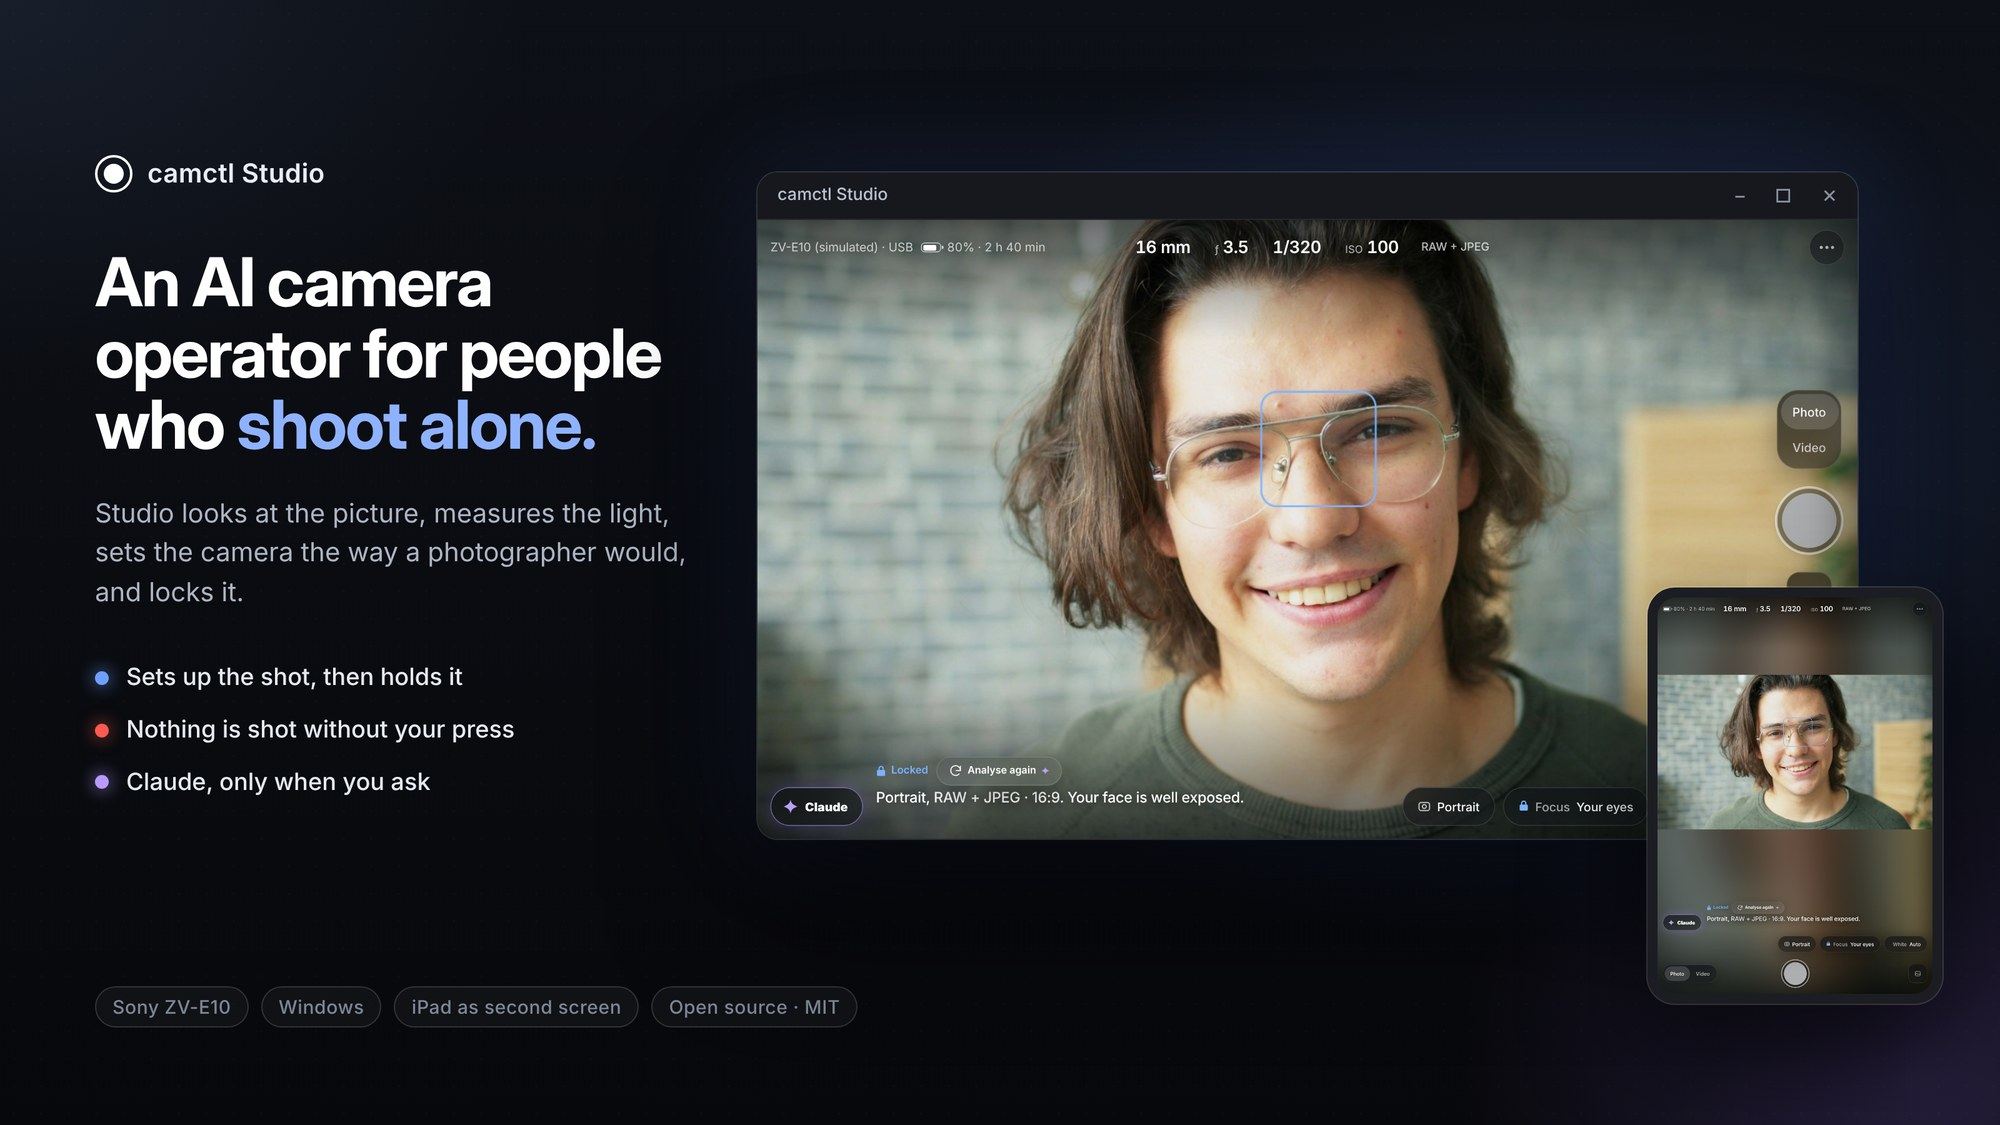
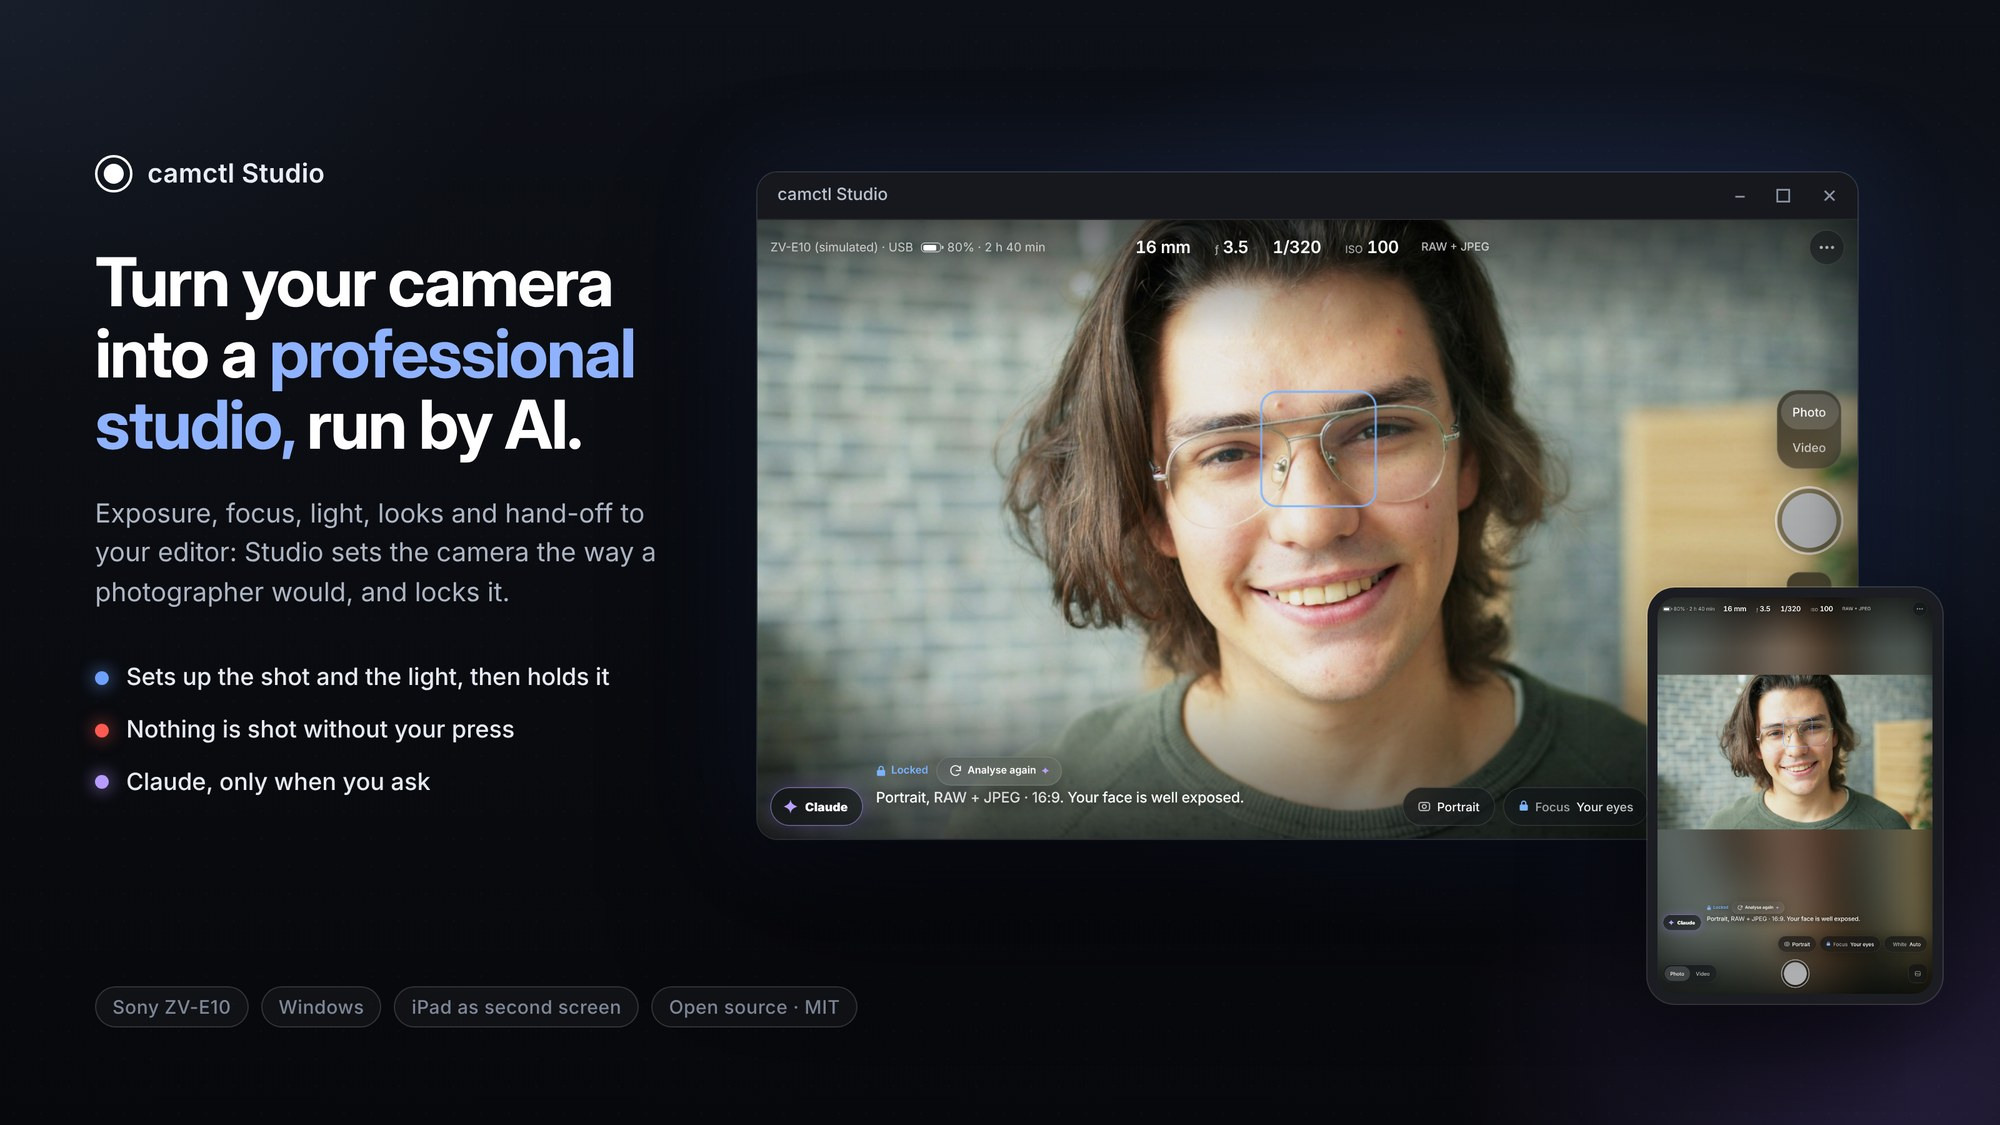
Stock photos on Looks and shot cards, new tagline, photo credits
Looks sample and the shot / special-shot cards use free Unsplash photos
(credited in docs/photo-credits.md); cards fall back to drawings.
README and cover: "Turn your camera into a professional studio, run by AI."
Guide pictures for cover, shot, special shots and Looks retaken.

Claude-Session: https://claude.ai/code/session_013GxCvgcNCaAZ6czGJ1dDvg

Changed region(s): [[0.031, 0.2178, 0.341, 0.4044], [0.031, 0.4356, 0.341, 0.56], [0.155, 0.5911, 0.31, 0.6222]]

diff --git a/camctl/studio_pro.html b/camctl/studio_pro.html
@@ -424,6 +424,9 @@ body[data-tray="1"] .dz-bottom{opacity:0;pointer-events:none}
   color:var(--text);scroll-snap-align:center;transition:border-color .2s,transform .25s var(--spring),background .2s}
 .card:active{transform:scale(.97)}.card[aria-pressed="true"]{border-color:var(--text);background:rgba(255,255,255,.12)}
 .card svg{display:block;width:100%;aspect-ratio:8/5;border-radius:14px}
+.card .art{position:relative;display:block;width:100%;aspect-ratio:8/5;border-radius:14px;overflow:hidden}
+.card .art svg{position:absolute;inset:0;height:100%;border-radius:0}
+.card .art img{position:absolute;inset:0;width:100%;height:100%;object-fit:cover;display:block}
 .card b{display:block;margin:8px 6px 0;font-size:16px;font-weight:600}.card span{display:block;margin:1px 6px 0;font-size:13px;color:var(--dimw)}
 .card em{display:inline-block;margin:6px 6px 0;font-style:normal;font-size:12px;font-weight:600;color:var(--lock)}
 .trayacts{display:flex;gap:8px;margin:12px 4px 0}
@@ -2758,6 +2761,8 @@ buildDesign(); renderDz();
 /* ================= words (one name for one thing, everywhere) ================= */
 const WORDS={log:"Log",v709:"709",focus:"Focus",white:"White",shoot:"Shoot",take:"Take",shot:"What are you shooting?"};
 /* ================= the tray: visual pickers on the camera's real values ================= */
+/* card pictures: a stock photo from Studio (/api/art) over the drawing, which stays when there is no photo */
+function cardArt(key,svg){ return `<span class="art"><svg viewBox="0 0 80 50" preserveAspectRatio="xMidYMid slice">${svg}</svg><img src="/api/art/${key}.jpg" alt="" loading="lazy" onerror="this.remove()"></span>`; }
 const SHOT_ART={
   portrait:'<rect width="80" height="50" fill="#243247"/><circle cx="62" cy="13" r="6" fill="#fff" opacity=".4"/><circle cx="14" cy="20" r="4" fill="#8fd" opacity=".35"/><circle cx="70" cy="30" r="3.5" fill="#f9c" opacity=".4"/><path d="M18 50c0-11 8-16 19-16s19 5 19 16z" fill="#161d29"/><circle cx="37" cy="23" r="10" fill="#dcb69c"/>',
   interview:'<rect width="80" height="50" fill="#2a2e36"/><rect x="50" y="7" width="20" height="26" rx="2" fill="#a9c1e4" opacity=".55"/><path d="M8 50c0-10 7-14 16-14s16 4 16 14z" fill="#171b22"/><circle cx="24" cy="26" r="8.5" fill="#d3ab92"/><rect x="34" y="34" width="2" height="9" rx="1" fill="#777"/><circle cx="35" cy="33" r="2.4" fill="#999"/>',
@@ -2805,7 +2810,7 @@ function drawTray(){ const k=TR.k; if(!k) return; if(k.startsWith("sp_")) return
       `<div class="ends"><span>Cooler</span><span class="key">${m?"Studio measured "+m+" K":"Not measured yet"}</span><span>Warmer</span></div>`+
       '<div class="trayacts"><button class="tbtn" id="trWbFind">Find it automatically</button><button class="tbtn" id="trWbCard">Use a grey card</button></div>'; }
   if(k==="shot"){ const seen=(S.op&&S.op.decision&&S.op.decision.shot)||null, sel=TR.shot||seen||"portrait";
-    h='<div class="cards">'+Object.keys(SHOT_INFO).map(key=>`<button class="card" aria-pressed="${key===sel}" data-s="${key}"><svg viewBox="0 0 80 50" preserveAspectRatio="xMidYMid slice">${SHOT_ART[key]}</svg><b>${SHOT_INFO[key][0]}</b><span>${SHOT_INFO[key][1]}</span>${key===seen?"<em>Studio sees this</em>":""}</button>`).join("")+'</div>'; }
+    h='<div class="cards">'+Object.keys(SHOT_INFO).map(key=>`<button class="card" aria-pressed="${key===sel}" data-s="${key}">${cardArt(key,SHOT_ART[key])}<b>${SHOT_INFO[key][0]}</b><span>${SHOT_INFO[key][1]}</span>${key===seen?"<em>Studio sees this</em>":""}</button>`).join("")+'</div>'; }
   $("#trBody2").innerHTML=h;
   const on=$("#trBody2").querySelector('[aria-pressed="true"]'); if(on){ const c=on.parentNode; c.scrollLeft=on.offsetLeft-(c.clientWidth-on.offsetWidth)/2; }
   if(k==="wb"){ $("#trWbFind").onclick=()=>{ closeTray(); $("#wbcard").classList.add("on"); S.wbBox=true; drawGuides(); $("#wbFind").click(); };
@@ -2872,7 +2877,7 @@ function moreModel(){ const on=o=>S.overlays.has(o)?"On":"Off";
 function renderMore(){ let box=$("#mGroups"); if(!box){ box=document.createElement("div"); box.className="mgroups"; box.id="mGroups"; $("#mScroll").prepend(box); }
   const model=moreModel(); S.moreActs=[];
   box.innerHTML=model.map(([h,rows])=>(h?`<h3>${esc(h)}</h3>`:"")+(rows[0]&&rows[0].cards?
-      '<div class="cards" style="padding:4px 0 0;display:grid;grid-template-columns:1fr 1fr;gap:8px;overflow:visible">'+rows[0].cards.map(k=>`<button class="card" data-spk="${k}" style="min-width:0;width:auto"><svg viewBox="0 0 80 50" preserveAspectRatio="xMidYMid slice">${SPECIAL[k].art}</svg><b>${SPECIAL[k].title}</b><span>${SPECIAL[k].line}</span></button>`).join("")+'</div>'
+      '<div class="cards" style="padding:4px 0 0;display:grid;grid-template-columns:1fr 1fr;gap:8px;overflow:visible">'+rows[0].cards.map(k=>`<button class="card" data-spk="${k}" style="min-width:0;width:auto">${cardArt(k,SPECIAL[k].art)}<b>${SPECIAL[k].title}</b><span>${SPECIAL[k].line}</span></button>`).join("")+'</div>'
       :'<div class="mgrp">'+rows.map(r=>{ if(r.note) return `<div class="mnote" style="padding:12px 14px;color:var(--dimw);font-size:14px">${esc(r.note)}</div>`; S.moreActs.push(r.act); return `<button class="mrow${r.sub?" sub":""}" data-i="${S.moreActs.length-1}">${esc(r.label)}<span>${esc(r.val||"")}</span></button>`; }).join("")+'</div>')).join("");
   box.querySelectorAll("[data-spk]").forEach(b=>b.onclick=()=>{ $("#moreSheet").classList.remove("on"); spSheet(b.dataset.spk); });
   box.querySelectorAll(".mrow").forEach(b=>b.onclick=()=>{ S.moreActs[+b.dataset.i](); if(!b.classList.contains("sub")) setTimeout(renderMore,150); }); }

diff --git a/tools/publish.py b/tools/publish.py
@@ -20,16 +20,20 @@ ROOT = Path(__file__).resolve().parents[1]
 
 # allow-list: only these are ever published
 INCLUDE = [
-    "camctl/**/*.py", "camctl/studio_pro.html", "camctl/presets.json", "camctl/assets/*.ico",
+    "camctl/**/*.py", "camctl/studio_pro.html", "camctl/presets.json", "camctl/assets/*.ico", "camctl/assets/looks_sample.jpg", "camctl/assets/cards/*.jpg",
     "tests/*.py", "tests/data/*.json", "tests/data/lineup_ref.jpg",
     "tools/battery_guard.py", "tools/check_page.py", "tools/leave_as_set_up.py",
     "tools/publish.py", "tools/sim_studio.py", "tools/start_server.pyw", "tools/studio_app.pyw",
     "README.md", "LICENSE", "CONTRIBUTING.md", "requirements.txt", "requirements-optional.txt", "pyproject.toml", "start_studio.ps1",
     "Install or repair camctl Studio.cmd", ".gitignore", ".github/ISSUE_TEMPLATE/*.md",
-    "docs/guide.md", "docs/img/*.jpg",
+    "docs/guide.md", "docs/photo-credits.md", "docs/img/*.jpg",
 ]
 NEVER = re.compile(r"(\.bak$|\.r\d+\.bak$|__pycache__|\.pyc$|/logs/|/captures/|AUDIT\.md|publish_list\.txt|\.log$)", re.I)
-IMAGES_OK = {"tests/data/lineup_ref.jpg", "camctl/assets/studio.ico"}     # a generated picture and the app icon
+IMAGES_OK = {"tests/data/lineup_ref.jpg", "camctl/assets/studio.ico",     # a generated picture and the app icon
+             "camctl/assets/looks_sample.jpg"}   # the Looks sample: stock photo (Vitaly Gariev, Unsplash License)
+# the pictures on the shot cards and special-shot cards: stock photos (Unsplash License), named one by one
+CARD_PICS = ("portrait", "interview", "product", "daylight", "lowlight", "focusstack", "burst", "match", "auto")
+IMAGES_OK |= {f"camctl/assets/cards/{n}.jpg" for n in CARD_PICS}
 # the visual guide's pictures (docs/img): screenshots of the SIMULATOR only, never a camera frame. The person in them is
 # a free stock photo (Vitaly Gariev on Unsplash, Unsplash License) put in the place of the simulator's test card.
 # Each picture is named here so that no other picture can slip in

diff --git a/camctl/webui.py b/camctl/webui.py
@@ -3557,10 +3557,21 @@ def build_app(studio: Studio, start_auto: bool = False) -> Starlette:
                              "files": files[:60], "job": {k: v for k, v in look_job.items() if k != "stop"},
                              "ffmpeg": video.find_ffmpeg() is not None})
 
+    CARD_ART = ("portrait", "interview", "product", "daylight", "lowlight", "focusstack", "burst", "match", "auto")
+
+    def card_art(request: Request):
+        """The picture on a shot card or special-shot card: a stock photo shipped in camctl/assets/cards (Unsplash
+        License, never the user). Only the named cards; the page keeps its drawing when there is none."""
+        key = request.path_params["key"]
+        f = Path(__file__).resolve().parent / "assets" / "cards" / f"{key}.jpg"
+        if key not in CARD_ART or not f.is_file():
+            return JSONResponse({"error": "no picture"}, status_code=404)
+        return Response(f.read_bytes(), media_type="image/jpeg", headers={"Cache-Control": "max-age=3600"})
+
     _sample_cache: dict = {}
 
     def looks_sample(request: Request):
-        """The six looks on the same DRAWN sample picture (never a photo of anyone)."""
+        """The six looks on the same sample picture: the stock photo shipped in camctl/assets (never the user)."""
         key = request.path_params["key"]
         if key != "original" and key not in looks.BY_KEY:
             return JSONResponse({"error": "unknown look"}, status_code=404)
@@ -4792,6 +4803,7 @@ def build_app(studio: Studio, start_auto: bool = False) -> Starlette:
         Route("/api/settings", settings),
         Route("/api/formats", formats_view, methods=["GET", "POST"]),
         Route("/api/sound/ask", sound_ask, methods=["POST"]),
+        Route("/api/art/{key}.jpg", card_art),
         Route("/api/looks", looks_list),
         Route("/api/looks/sample/{key}.jpg", looks_sample),
         Route("/api/looks/table/{key}", looks_table),

diff --git a/tests/test_looks_studio.py b/tests/test_looks_studio.py
@@ -2,6 +2,7 @@
 switch (off at every start), and nothing Studio measures or sends ever sees a look."""
 import asyncio
 import hashlib
+import io
 import re
 from pathlib import Path
 
@@ -107,3 +108,20 @@ def test_the_preview_only_reaches_the_picture_when_switched_on(sim):
     assert isinstance(r, dict), r
     assert start is None                                                             # off at every start
     assert r["off"] <= 2 and r["on"] > 10 and r["same_hist"]                          # histogram from the camera frame
+
+
+def test_card_pictures_are_stock_photos_and_only_named_ones():
+    from pathlib import Path
+    from PIL import Image
+    from starlette.testclient import TestClient
+    from camctl import webui
+    from test_autopilot import StubCam, _studio_with
+    cards = Path(webui.__file__).resolve().parent / "assets" / "cards"
+    with TestClient(webui.build_app(_studio_with(StubCam()))) as c:
+        for key in ("portrait", "interview", "product", "daylight", "lowlight", "focusstack", "burst", "match", "auto"):
+            r = c.get(f"/api/art/{key}.jpg")
+            assert r.status_code == 200 and r.content == (cards / f"{key}.jpg").read_bytes()
+            im = Image.open(io.BytesIO(r.content))
+            assert im.size == (480, 300) and not im.getexif()
+        for bad in ("nothing", "..%2F..%2Fkeystore", "studio"):
+            assert c.get(f"/api/art/{bad}.jpg").status_code == 404

diff --git a/camctl/looks.py b/camctl/looks.py
@@ -150,7 +150,19 @@ def apply_table(img: np.ndarray, tab: np.ndarray, strength: float = 1.0) -> np.n
 
 
 # ---------------------------------------------------------------- pictures
+SAMPLE_PHOTO = Path(__file__).resolve().parent / "assets" / "looks_sample.jpg"
+
+
 def sample_picture(w: int = 480, h: int = 300) -> bytes:
+    """The picture the six looks are shown on: a stock photo shipped with Studio (Vitaly Gariev on Unsplash,
+    Unsplash License; never a photo of the user or from the camera), without EXIF. Falls back to a drawn sample
+    when the file is missing."""
+    if SAMPLE_PHOTO.is_file() and (w, h) == (480, 300):
+        return SAMPLE_PHOTO.read_bytes()
+    return drawn_sample(w, h)
+
+
+def drawn_sample(w: int = 480, h: int = 300) -> bytes:
     """A DRAWN sample (no photo of anyone): sky, a face-coloured patch, a grey ramp and colour chips."""
     from PIL import Image, ImageDraw
     im = Image.new("RGB", (w, h))

diff --git a/tests/test_looks.py b/tests/test_looks.py
@@ -106,6 +106,15 @@ def test_clip_copy_keeps_the_original(tmp_path):
     assert not (out.parent / ".work").exists()
 
 
-def test_the_sample_is_drawn_never_a_photo():
+def test_the_sample_is_the_shipped_stock_photo_without_exif():
+    assert looks.SAMPLE_PHOTO.is_file()
+    assert looks.sample_picture() == looks.SAMPLE_PHOTO.read_bytes()
     im = Image.open(io.BytesIO(looks.sample_picture()))
     assert im.size == (480, 300) and not im.getexif()
+
+
+def test_the_drawn_fallback_is_used_without_the_photo(monkeypatch, tmp_path):
+    monkeypatch.setattr(looks, "SAMPLE_PHOTO", tmp_path / "missing.jpg")
+    im = Image.open(io.BytesIO(looks.sample_picture()))
+    assert im.size == (480, 300) and not im.getexif()
+    assert looks.sample_picture() == looks.drawn_sample()

diff --git a/docs/photo-credits.md b/docs/photo-credits.md
@@ -1,0 +1,20 @@
+# Photo credits
+
+Studio and its guide use free stock photos from [Unsplash](https://unsplash.com), all under the
+[Unsplash License](https://unsplash.com/license). None of them shows the user, the user's room or a frame from a camera.
+
+| Where | Photo | Photographer |
+|---|---|---|
+| Guide screenshots and README cover (the person in front of the camera) | [Young man with glasses smiles at the camera](https://unsplash.com/photos/young-man-with-glasses-smiles-at-the-camera-xhQUcSQpotU) | Vitaly Gariev |
+| Looks: the sample picture (`camctl/assets/looks_sample.jpg`) | the same photo | Vitaly Gariev |
+| Shot card: Portrait | [A man with a beard looks directly forward](https://unsplash.com/photos/a-man-with-a-beard-looks-directly-forward-tixe_fCjSIc) | Vitaly Gariev |
+| Shot card: Interview | [A man wearing headphones sitting in front of a microphone](https://unsplash.com/photos/a-man-wearing-headphones-sitting-in-front-of-a-microphone-E8JXH2PNahs) | Tim Mossholder |
+| Shot card: Product | [Brown glass bottle on black surface](https://unsplash.com/photos/brown-glass-bottle-on-black-surface-aklPUDqtMyY) | Joseph Gonzalez |
+| Shot card: Daylight | [Pathway between yellow flower field](https://unsplash.com/photos/pathway-between-yellow-flower-field-hB-Vwbyxr9U) | Raquel Pedrotti |
+| Shot card: Low light | [Man with glasses and long hair against black background](https://unsplash.com/photos/man-with-glasses-and-long-hair-against-black-background-HtLuyjRSBlQ) | Les Taylor |
+| Special shot: Focus stack | [White roses in black background](https://unsplash.com/photos/white-roses-in-black-background-7VNErY1Tgsc) | Showkat Chowdhury |
+| Special shot: Clean night shot | [New York City skyline at night](https://unsplash.com/photos/new-york-city-skyline-at-night-t8XP7MBLxsw) | Zac Ong |
+| Special shot: Match this shot | [Silhouette of a person holding a camera on a tripod](https://unsplash.com/photos/silhouette-photo-of-person-holding-camera-on-tripod-stand-outside-4H67yWXO2-M) | KOBU Agency |
+| Special shot: Timelapse & bracket | [Clouds in orange and teal sky](https://unsplash.com/photos/clouds-in-orange-and-teal-sky-ebHCU8n7G38) | Anton Darius |
+
+The card pictures live in `camctl/assets/cards/`. If one is missing, Studio shows its drawn picture instead.

diff --git a/README.md b/README.md
@@ -1,9 +1,9 @@
 # camctl Studio
 
-**An AI camera operator for people who shoot alone.**
+**Turn your camera into a professional studio, run by AI.**
 
 camctl Studio sets up and operates your camera the way a professional photographer would, so you can concentrate on
-what is in front of it: talking-head video, shorts, photos and video calls. Studio (with Claude, if you add your key)
+what is in front of it: portraits, products, talking-head video, shorts and video calls. Studio (with Claude, if you add your key)
 looks at the picture, measures the light, sets exposure, focus, white balance and the file format, and then **locks**
 everything. After that nothing changes by itself; you decide when something changes.
 
@@ -11,7 +11,7 @@ everything. After that nothing changes by itself; you decide when something chan
 
 <sub>The screens come from Studio's built-in simulator. The person is an example photo by
 [Vitaly Gariev on Unsplash](https://unsplash.com/photos/young-man-with-glasses-smiles-at-the-camera-xhQUcSQpotU),
-standing in for the camera's picture.</sub>
+standing in for the camera's picture. All photos used: [photo credits](docs/photo-credits.md).</sub>
 
 **New here?** The [visual guide](docs/guide.md) shows every screen and how to use it, step by step.
 

diff --git a/docs/guide.md b/docs/guide.md
@@ -6,6 +6,7 @@ How to use Studio, screen by screen. For installing it, see the [README](../READ
 > [Vitaly Gariev on Unsplash](https://unsplash.com/photos/young-man-with-glasses-smiles-at-the-camera-xhQUcSQpotU))
 > standing in for the camera's picture; with your camera connected you see its live picture there. Claude's answers in
 > the screenshots are made up by the simulator and say so.
+> The pictures on the cards and in Looks are stock photos too: see the [photo credits](photo-credits.md).
 
 **Contents**
 
